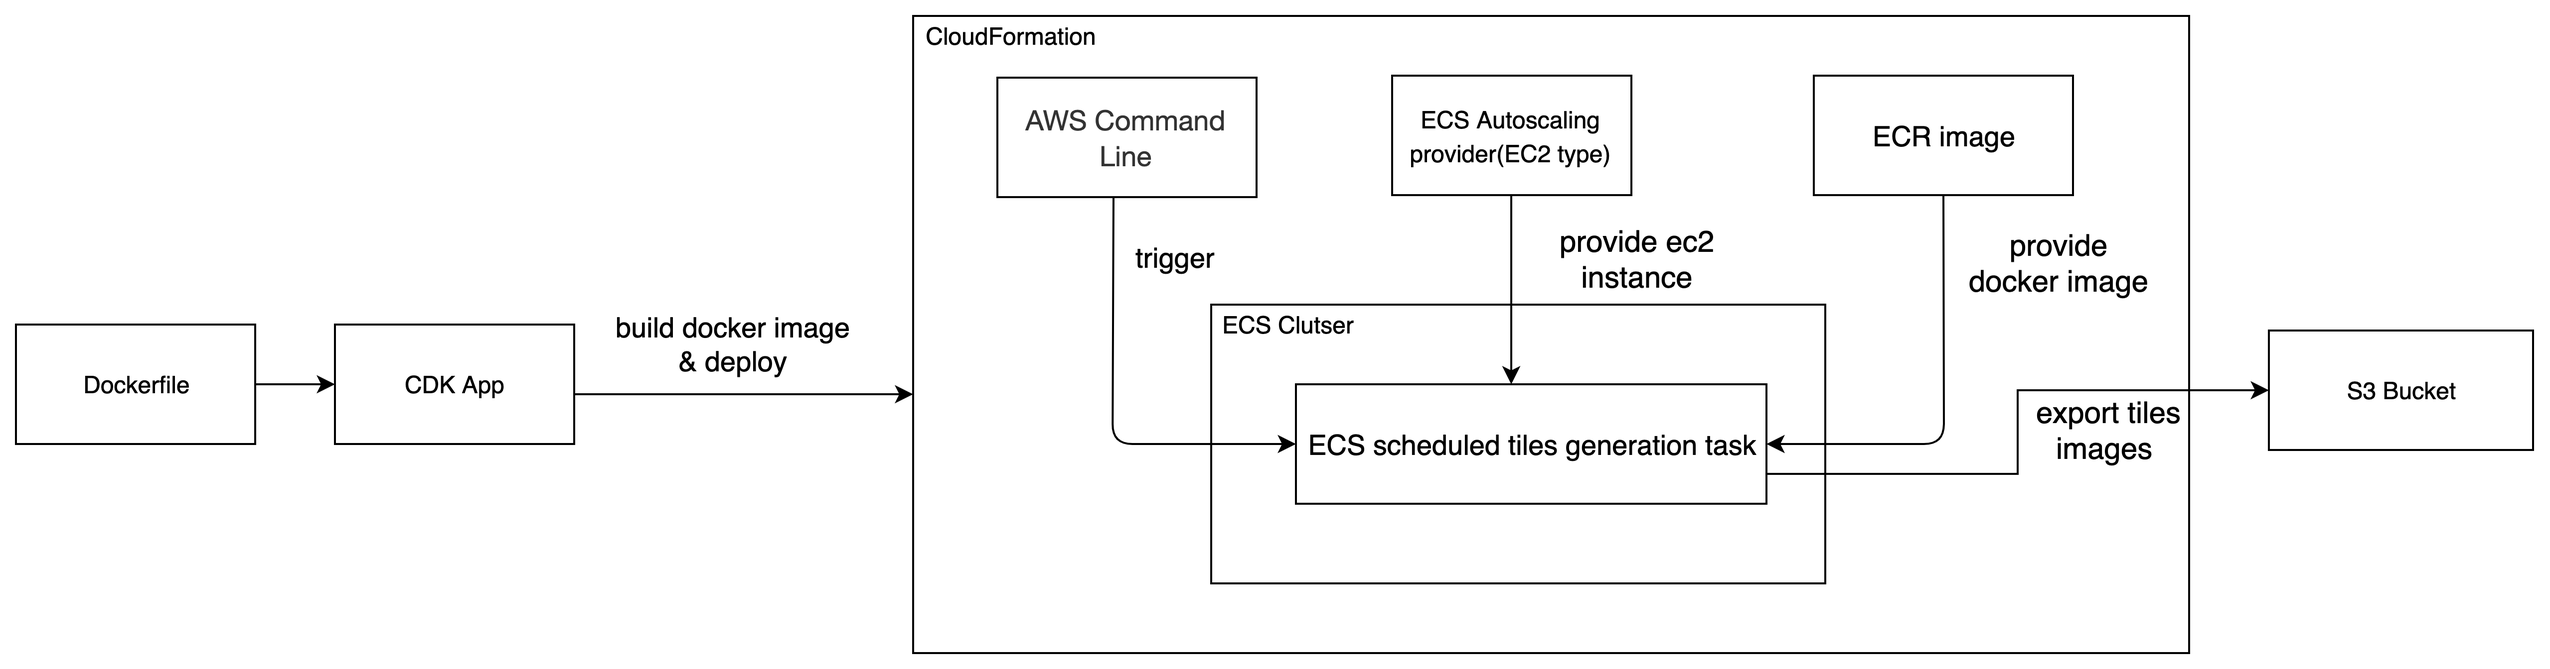
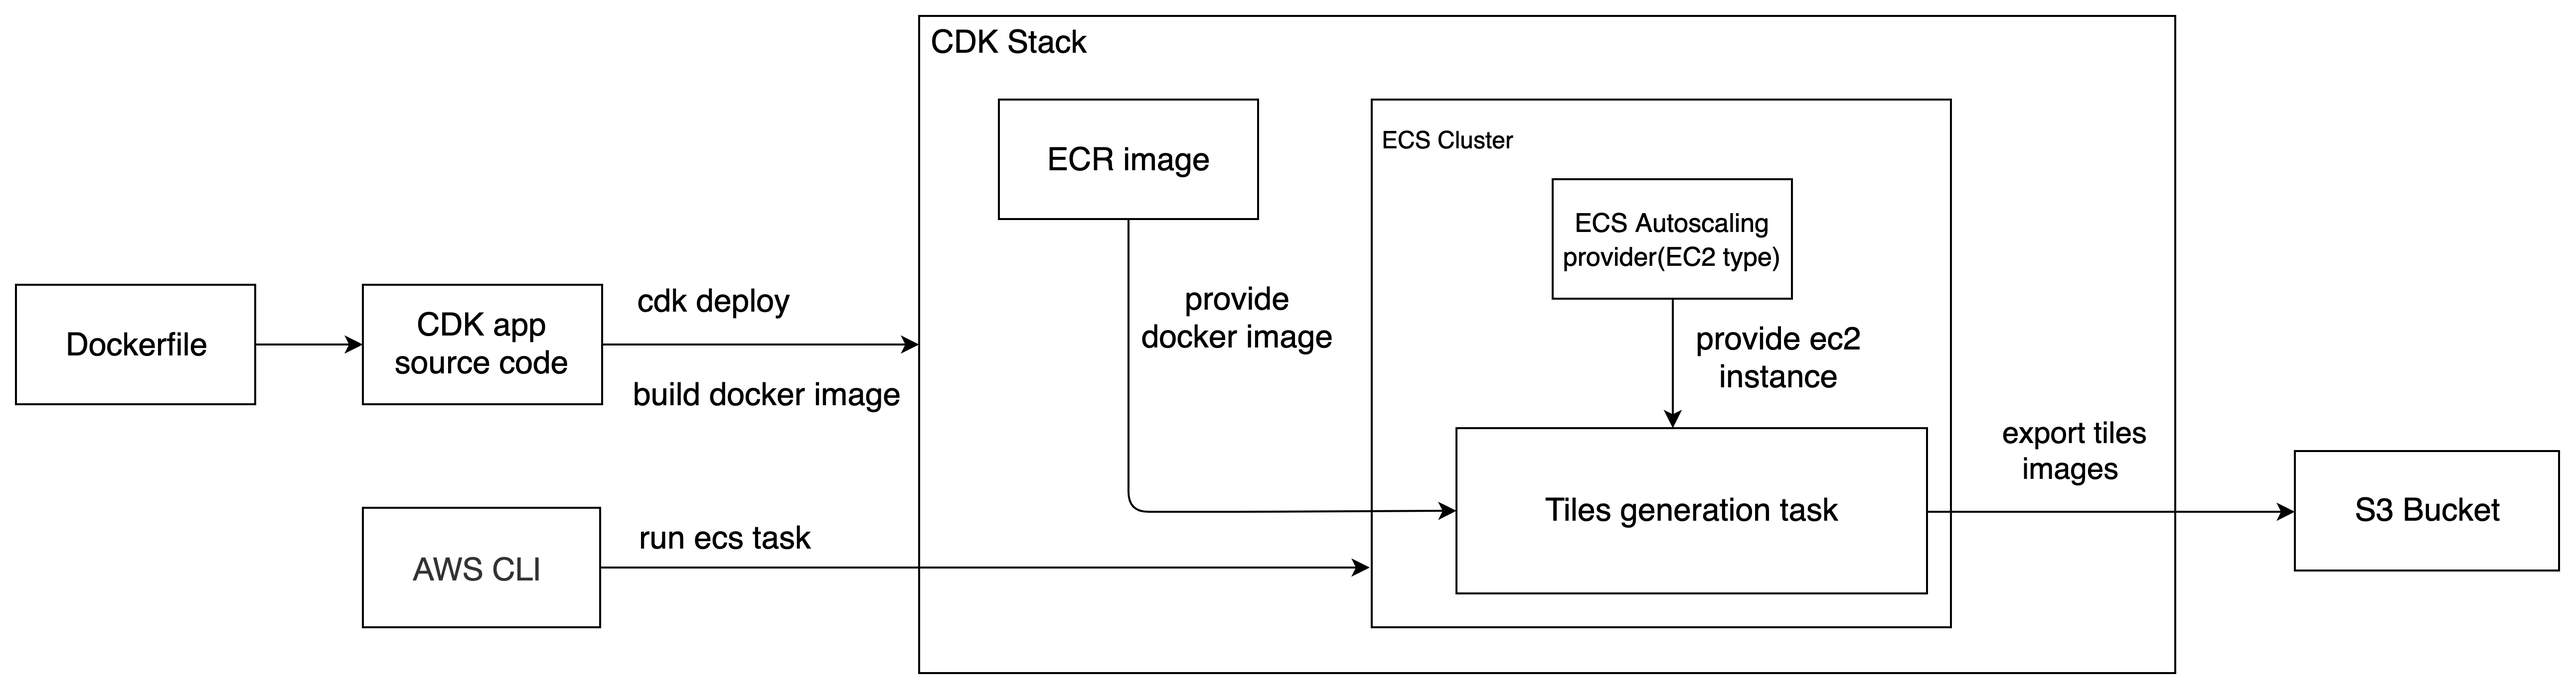
Update README.md

diff --git a/tiles-generation/cdk/README.md b/tiles-generation/cdk/README.md
@@ -1,13 +1,22 @@
 # Tiles generation pipeline with CDK
 
- This project in `tilesGenerationPipeline` folder helps to build a raster map tiles generaion pipeline on Amazon ECS in AWS CDK. The docker base image is come from https://github.com/Overv/openstreetmap-tile-server.
+ The tiles generation stack builds a raster map tiles generation pipeline on [Amazon ECS](https://aws.amazon.com/ecs/) using [AWS CDK](https://aws.amazon.com/cdk/). The docker base image used in ECS comes from the [openstreetmap-tile-server](https://github.com/Overv/openstreetmap-tile-server) project.
 
 ## Diagram
 ![alt text](./tiles-generation-diagram.png).
 
-#  Getting Started
-## Prerequisites
+Step1: Deploy CDK stack, prepare AWS resources, it will:
+* Build and upload docker image to ECR
+* Create ECS autoscaling provider and initialized with 0 EC2 instance
+* Create ECS task definition
 
+Step2: Execute ECS tiles task by run-task command, it will:
+* Request new EC2 instance and volume created from autoscaling provider
+* Start running task work
+* Tiles images set with version controlled name will be uploaded to S3 bucket
+* Once task finished, EC2 instance and volumes will be destroyed by autoscaling provider 
+
+## Prerequisites
 ### Install Node.js
 Visit [here](https://nodejs.org/en/) to install Node.js
 
@@ -19,7 +28,7 @@ npm install -g aws-cdk
 ### Install AWS CLI
 Visit [here](https://docs.aws.amazon.com/cli/latest/userguide/getting-started-install.html) to install AWS CLI
 ### AWS Prerequisites
-Visit [here](https://docs.aws.amazon.com/cdk/latest/guide/getting_started.html#getting_started_prerequisites) to configure aws credentials. 
+Visit [here](https://docs.aws.amazon.com/cdk/latest/guide/getting_started.html#getting_started_prerequisites) to configure aws credentials
 ## Deployment
 
 ### Deploy steps
@@ -29,19 +38,19 @@ Visit [here](https://docs.aws.amazon.com/cdk/latest/guide/getting_started.html#g
 
 2. A S3 bucket is required in CDK deployment to store generated tiles. The context name `TILE_S3_BUCKET` you will use to deploy. This bucket must be in the same aws account.
 
-3. Deploy CDK stacks, all AWS resources defined within the scope of a stack
+3. Deploy CDK stacks, all AWS resources defined within the scope of a stack.
 
-* Test tile generation stack, it's used to test with light data for development and tuning performance.
+* Test tile generation stack, it's used to test with light data for development and tuning performance. Since planet tiles generation task will take days, when you want to update the code source, it's recommended to test first with the tile generation test stack.
 ```
 cdk deploy TestTileGenerationStack --context TILE_S3_BUCKET=S3BucketName
 ```
 
-* Planet tile generation stack
+* Planet tile generation stack, currently we are using OSM planet data from [OpenStreetMap on AWS](https://registry.opendata.aws/osm/), the ECS task will download the latest version PBF file from there.
 ```
 cdk deploy PlanetTileGenerationStack --context TILE_S3_BUCKET=S3BucketName
 ```
 
-4. Execute tiles generation. Once stack deployed, you will get the outputs of `ClusterName`, `TaskDefinitionArn`, `CapacityProviderName` on the terminal end. Use them on the below command.
+4. Execute tiles generation. Once stack deployed, note the `ClusterName`, `TaskDefinitionArn`, `CapacityProviderName` from the output of the command. Use them on the below command.
 
 ```
 aws ecs run-task --cluster ClusterName --task-definition TaskDefinitionArn --capacity-provider-strategy capacityProvider=CapacityProviderName
